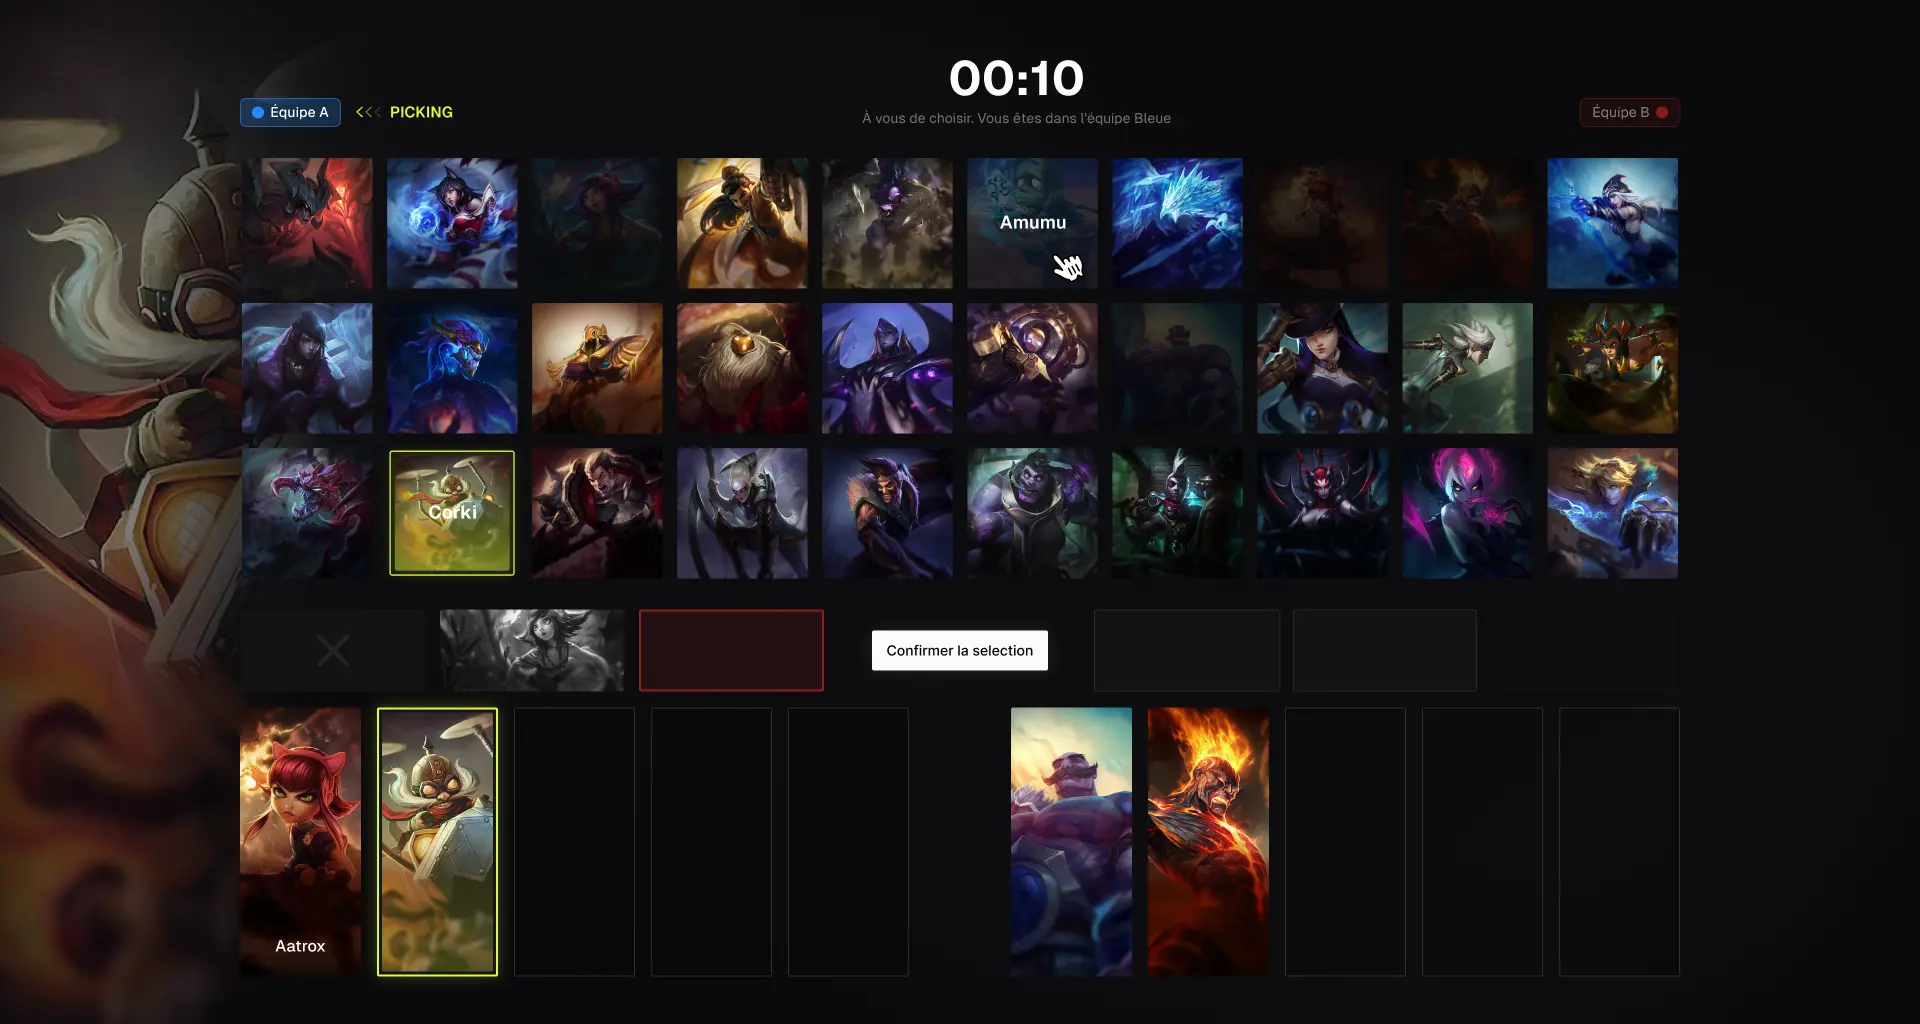
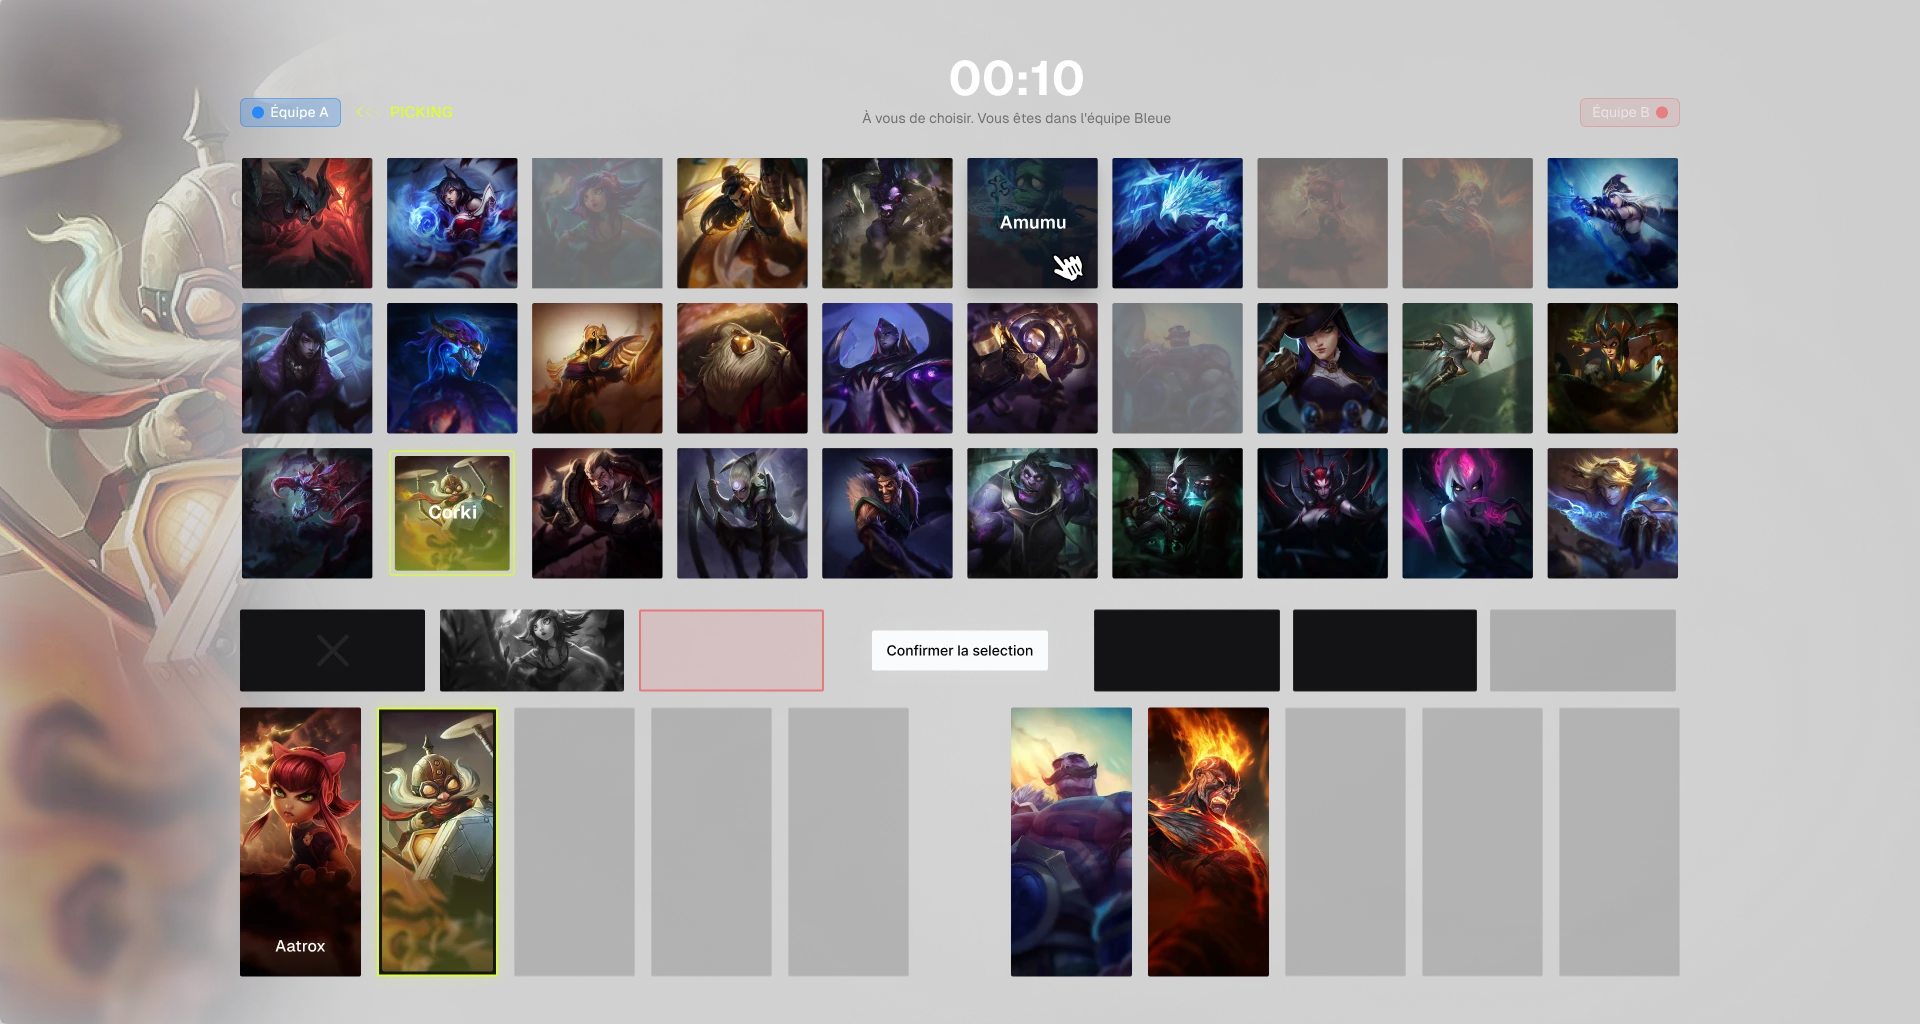
Change image webp and update fog

diff --git a/app/components/About.tsx b/app/components/About.tsx
@@ -9,22 +9,31 @@ export default function About() {
   return (
     <>
 
-      <div className="flex items-center">
+      <div className="flex items-center h-full">
+
         <div className="px-4 max-w-7xl mx-auto flex flex-col md:flex-row justify-between items-start md:items-center gap-12 md:gap-24 lg:gap-32">
-          <div className="hidden sm:block">
+          <div className="hidden sm:block relative z-40">
             <div className="relative w-60  lg:w-full lg:h-auto rounded">
-              <BorderBeam colorFrom="#fff" colorTo="#1E1E1E" size={500}  />
               <Image
-              className="border rounded w-60  lg:w-full lg:h-auto"
-              width={400}
-              height={400}
-              src="/images/league.svg"
-              alt="Tournois HAQ"
-              priority={false}
-            />
+                className="z-40 absolute top-0 left-0 w-full h-full opacity-20"
+                objectFit="cover"
+                layout="fill"
+                src="/images/bg.webp"
+                alt="Background Fog"
+                priority={false}
+              />
+              <BorderBeam colorFrom="#fff" colorTo="#1E1E1E" size={500} />
+              <Image
+                className="border rounded w-60  lg:w-full lg:h-auto"
+                width={400}
+                height={400}
+                src="/images/league.svg"
+                alt="Tournois HAQ"
+                priority={false}
+              />
             </div>
           </div>
-          <div>
+          <div className="relative z-90">
             <h1 className="w-full font-normal text-muted-foreground text-sm mb-6">
               À PROPOS
             </h1>

diff --git a/app/components/AboutDraft.tsx b/app/components/AboutDraft.tsx
@@ -26,11 +26,11 @@ export default function AboutDraft() {
           transition={{ duration: 0.2 }}
           className="relative"
         >
-          <div className="relative rounded-xl max-w-7xl overflow-hidden mx-auto">
+          <div className="relative rounded-xl max-w-6xl overflow-hidden mx-auto">
             <BorderBeam colorFrom="#fff" colorTo="#1E1E1E" size={500} />
             <Image
-              width={1920} // The original width of your image
-              height={900} // The original height of your image
+              width={1920} 
+              height={900}
               quality={100}
               src="/images/draft.webp"
               alt="Aram draft pick"

diff --git a/app/components/Header.tsx b/app/components/Header.tsx
@@ -33,14 +33,6 @@ export default function Header() {
     >
       <div className="z-40 bg-gradient-to-t from-black to-transparent absolute top-0 left-0 h-full w-full"></div>
       <div className="bg-theme-gradient-50 backdrop-contrast-100 z-30 absolute top-0 left-0 w-full h-full opacity-70"></div>
-      <div
-        className="hidden z-10 fixed top-0 left-0 w-full h-full opacity-30"
-        style={{
-          backgroundImage: 'url("/images/bg.webp")',
-          backgroundSize: "cover",
-          backgroundPosition: "center",
-        }}
-      ></div>
       <motion.div
         initial={{ opacity: 0 }}
         animate={{ opacity: 0.6 }}

diff --git a/app/components/PopupMessage.tsx b/app/components/PopupMessage.tsx
@@ -70,10 +70,12 @@ export default function PopupMessage({ display, onClose }: PopupMessageProps) {
               </div>
             )}
             <Image
-              width={600}
-              height={800}
-              src="/images/sCurrent.webp"
-              alt="Saison 3"
+              width={632}
+              height={842}
+              quality={80}
+              src="/images/s3banner.webp"
+              alt="Saison3"
+              priority={true}
               onLoadingComplete={() => setLoading(false)}
             />
           </DialogDescription>

diff --git a/app/page.tsx b/app/page.tsx
@@ -46,7 +46,7 @@ export default function Home() {
             </div>
           </div>
         )}
-        <main className="flex flex-col gap-40 md:gap-60">
+        <main className="bg-black flex flex-col gap-40 md:gap-60">
           <NavBar />
           <Header />
           <About />
